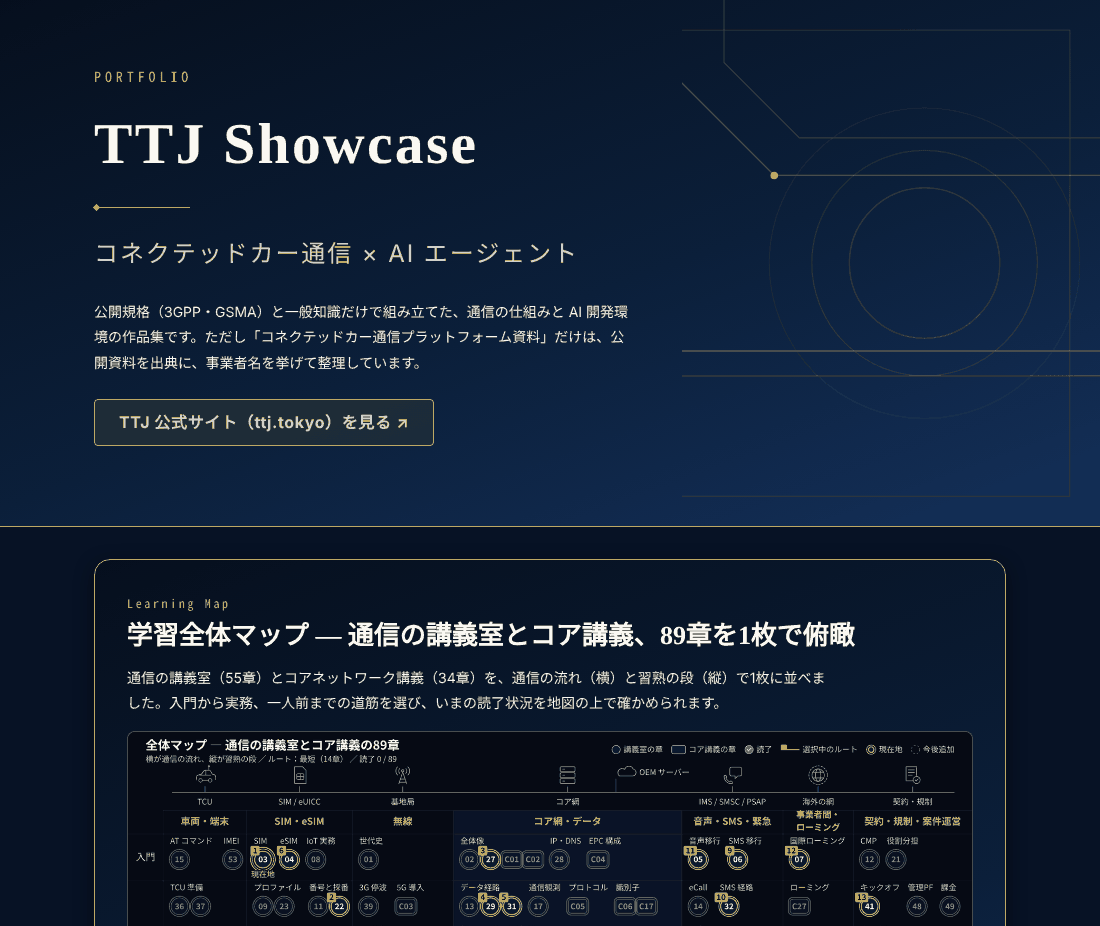
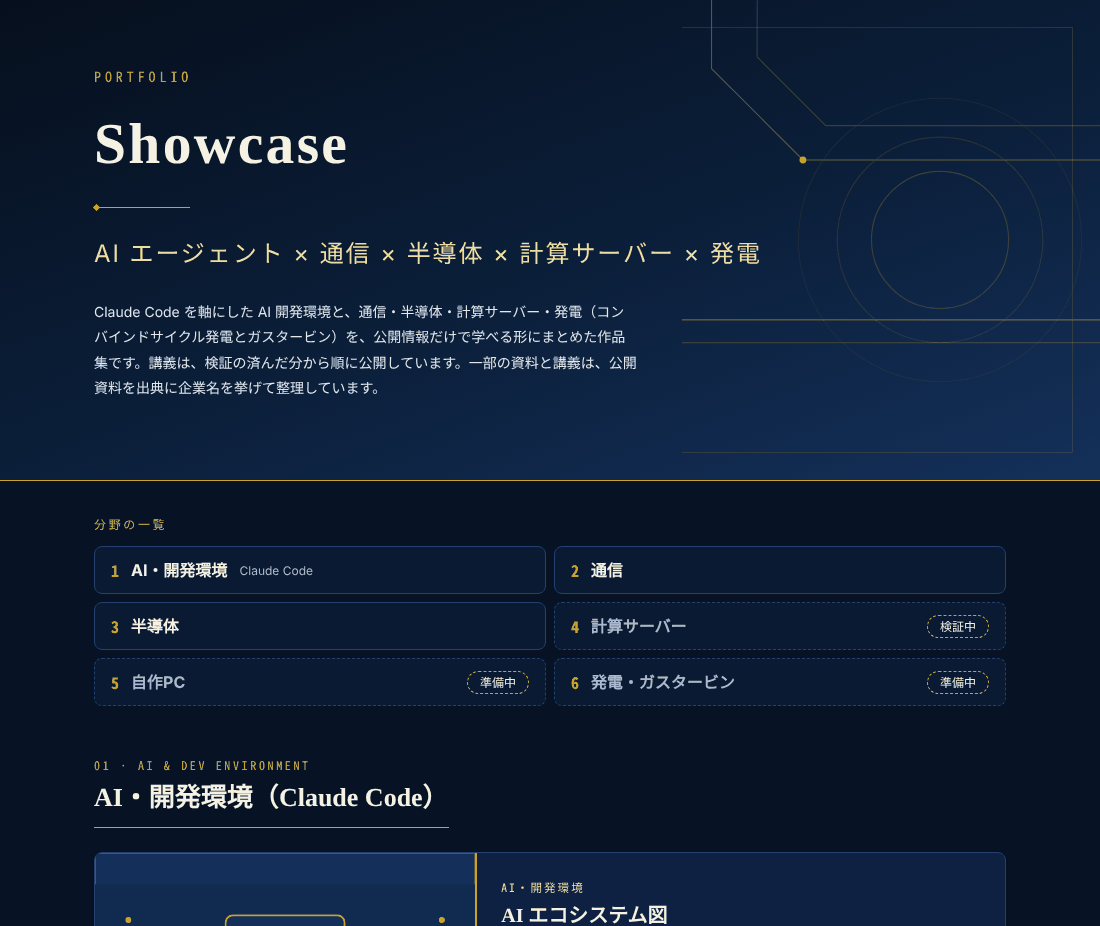
ショーケース上部を分野別の構成に直す（AI・通信・半導体・計算サーバー・発電）
- ヒーローの副題・説明文を、扱う分野の全体が分かるものに変更
- 分野の一覧（目次）を追加。未公開の分野は「検証中」「準備中」の札
- 作品を AI・開発環境 → 通信 → 半導体 → 予告 → その他の節に並べ替え
- プロフィールを分野の一覧に合わせて修正し、末尾へ移動
- ヒーローから ttj.tokyo のボタンを外し、題名を「Showcase」に変更
- README と OGP の説明文、portfolio.png も同じ趣旨に更新

Claude-Session: https://claude.ai/code/session_01TAiW6LFh45hysCjaHYhst4

diff --git a/showcase/index.html b/showcase/index.html
@@ -3,12 +3,12 @@
 <head>
 <meta charset="utf-8">
 <meta name="viewport" content="width=device-width, initial-scale=1">
-<title>TTJ Showcase — コネクテッドカー通信 × AI エージェント</title>
-<meta name="description" content="TTJ のポートフォリオ。通信の講義室とコアネットワーク講義の89章を1枚で俯瞰する学習全体マップ、コネクテッドカー通信と AI エージェント開発環境の作品集。">
+<title>Showcase — AI エージェント × 通信 × 半導体 × 計算サーバー × 発電</title>
+<meta name="description" content="Claude Code を軸にした AI 開発環境と、通信・半導体・計算サーバー・発電（コンバインドサイクル発電とガスタービン）を、公開情報だけで学べる形にまとめた作品集です。講義は、検証の済んだ分から順に公開しています。一部の資料と講義は、公開資料を出典に企業名を挙げて整理しています。">
 <meta property="og:type" content="website">
-<meta property="og:site_name" content="TTJ Showcase">
-<meta property="og:title" content="TTJ Showcase ― 学習全体マップ：通信の講義室とコア講義の89章を1枚で俯瞰">
-<meta property="og:description" content="通信の講義室（55章）とコアネットワーク講義（34章）を、通信の流れと習熟の段で1枚に。コネクテッドカー通信 × AI エージェントの作品集。">
+<meta property="og:site_name" content="Showcase">
+<meta property="og:title" content="Showcase ― 学習全体マップ：通信の講義室とコア講義の89章を1枚で俯瞰">
+<meta property="og:description" content="Claude Code を軸にした AI 開発環境と、通信・半導体・計算サーバー・発電（コンバインドサイクル発電とガスタービン）を、公開情報だけで学べる形にまとめた作品集です。講義は、検証の済んだ分から順に公開しています。一部の資料と講義は、公開資料を出典に企業名を挙げて整理しています。">
 <meta property="og:url" content="https://tetsuyaoyama.github.io/ttj-ai-ecosystem-/showcase/">
 <meta property="og:image" content="https://tetsuyaoyama.github.io/ttj-ai-ecosystem-/docs/images/learning-map.png">
 <meta property="og:image:width" content="1600">
@@ -120,6 +120,30 @@ a { color: var(--ttj-link); }
 .hero .sub { margin: 0; font-size: clamp(1.05rem, 3.6vw, 1.5rem); color: var(--ttj-gold-200); letter-spacing: 0.08em; }
 .hero .lead { margin: var(--ttj-space-5) 0 0; max-width: 34rem; color: var(--ttj-navy-100); font-size: var(--ttj-text-sm); }
 
+
+/* Hero sub: 区切りの × で折り返す */
+.hero .sub span { white-space: nowrap; }
+
+/* 分野の一覧 */
+.toc { padding: var(--ttj-space-6) 0 0; }
+.toc-title { margin: 0 0 var(--ttj-space-3); font-family: var(--ttj-font-mono); font-size: 0.75rem; letter-spacing: 0.22em; color: var(--ttj-accent-strong); }
+.toc ol { list-style: none; margin: 0; padding: 0; display: grid; gap: var(--ttj-space-2); grid-template-columns: 1fr; counter-reset: toc; }
+.toc li { counter-increment: toc; }
+.toc a, .toc .off { display: flex; align-items: center; gap: var(--ttj-space-3); min-height: 48px; padding: var(--ttj-space-2) var(--ttj-space-4); border: 1px solid var(--ttj-border); border-radius: var(--ttj-radius-md); background: var(--ttj-bg-subtle); text-decoration: none; color: var(--ttj-text); }
+.toc a::before, .toc .off::before { content: counter(toc); font-family: var(--ttj-font-mono); font-weight: 700; color: var(--ttj-accent-strong); }
+.toc a small { color: var(--ttj-text-muted); font-size: 0.75rem; }
+.toc a:hover, .toc a:focus-visible { border-color: var(--ttj-gold-500); }
+.toc .off { border-style: dashed; color: var(--ttj-text-muted); }
+.status { display: inline-block; margin-left: auto; font-family: var(--ttj-font-mono); font-style: normal; font-size: 0.75rem; line-height: 1.4; padding: 2px var(--ttj-space-3); border-radius: var(--ttj-radius-pill); border: 1px dashed var(--ttj-gold-500); color: var(--ttj-text); white-space: nowrap; }
+@media (min-width: 640px) { .toc ol { grid-template-columns: 1fr 1fr; } }
+
+/* 予告（未公開の分野） */
+.soon { display: flex; flex-wrap: wrap; align-items: center; gap: var(--ttj-space-2) var(--ttj-space-4); padding: var(--ttj-space-4) var(--ttj-space-5); border: 1px dashed var(--ttj-border); border-radius: var(--ttj-radius-md); background: var(--ttj-bg-subtle); }
+.soon h3 { font-size: var(--ttj-text-base); }
+.soon p { margin: 0; flex: 1 1 16rem; font-size: var(--ttj-text-sm); color: var(--ttj-text-muted); }
+.soon .status { margin-left: 0; }
+#field-telecom .feature { margin-bottom: var(--ttj-space-5); }
+
 /* ---------- Sections ---------- */
 section { padding: var(--ttj-space-7) 0 0; }
 .sec-head { margin-bottom: var(--ttj-space-5); }
@@ -136,12 +160,12 @@ section { padding: var(--ttj-space-7) 0 0; }
 .fields li { background: var(--ttj-bg); border: 1px solid var(--ttj-border); border-radius: var(--ttj-radius-md); padding: var(--ttj-space-4); box-shadow: var(--ttj-shadow-sm); }
 .fields strong { display: block; color: var(--ttj-navy-800); font-family: var(--ttj-font-serif); }
 .fields span { font-size: var(--ttj-text-sm); color: var(--ttj-text-muted); }
+.fields .status { margin-left: 0; font-size: 0.75rem; color: var(--ttj-text); }
 
 /* Feature（学習全体マップ） */
-.feature { padding-top: var(--ttj-space-6); }
 .feature-box { background: linear-gradient(160deg, var(--ttj-navy-900) 0%, var(--ttj-navy-800) 60%, var(--ttj-navy-700) 100%); color: var(--ttj-text-inverse); border: 1px solid var(--ttj-gold-500); border-radius: var(--ttj-radius-lg); box-shadow: var(--ttj-shadow-md); padding: var(--ttj-space-5); }
 .feature .en { display: block; font-family: var(--ttj-font-mono); font-size: 0.75rem; letter-spacing: 0.22em; color: var(--ttj-gold-400); }
-.feature h2 { color: #fff; font-size: clamp(1.3rem, 4.6vw, var(--ttj-text-xl)); font-weight: 600; margin-top: var(--ttj-space-1); }
+.feature h3 { color: #fff; font-size: clamp(1.3rem, 4.6vw, var(--ttj-text-xl)); font-weight: 600; margin-top: var(--ttj-space-1); }
 .feature .f-lead { margin: var(--ttj-space-3) 0 var(--ttj-space-4); max-width: 44rem; color: var(--ttj-navy-100); font-size: var(--ttj-text-sm); }
 .feature .f-shot { display: block; border: 1px solid rgba(201,162,39,0.55); border-radius: var(--ttj-radius-md); overflow: hidden; background: #060a14; }
 .feature .f-shot img { display: block; width: 100%; height: auto; }
@@ -184,15 +208,6 @@ section { padding: var(--ttj-space-7) 0 0; }
 .btn:hover { background: var(--ttj-gold-500); color: var(--ttj-navy-900); border-color: var(--ttj-gold-500); }
 .btn svg { width: 16px; height: 16px; }
 
-/* Site link */
-.hero-cta { margin: var(--ttj-space-5) 0 0; }
-.btn-site {
-  display: inline-block; line-height: 1.6; min-height: 44px; box-sizing: border-box; padding: 10px var(--ttj-space-5);
-  color: var(--ttj-gold-200); text-decoration: none; font-weight: 700; letter-spacing: 0.04em;
-  border: 1px solid var(--ttj-gold-500); border-radius: var(--ttj-radius-sm); background: rgba(201,162,39,0.1);
-  transition: background .2s ease, color .2s ease;
-}
-.btn-site:hover, .btn-site:focus-visible { background: var(--ttj-gold-500); color: var(--ttj-navy-900); }
 @media (min-width: 820px) {
   .cards > .card:last-child:nth-child(odd) { grid-column: 1 / -1; flex-direction: row; }
   .cards > .card:last-child:nth-child(odd) .thumb { flex: 0 0 42%; border-bottom: 0; border-right: 2px solid var(--ttj-gold-500); display: flex; }
@@ -294,7 +309,7 @@ footer a:hover { color: var(--ttj-gold-200); }
 </style>
 </head>
 <body>
-<a class="skip" href="#works">作品へスキップ</a>
+<a class="skip" href="#field-ai">作品へスキップ</a>
 
 <header class="hero">
   <svg class="hero-art" viewBox="0 0 960 420" preserveAspectRatio="xMaxYMid slice" aria-hidden="true" focusable="false">
@@ -313,20 +328,74 @@ footer a:hover { color: var(--ttj-gold-200); }
   </svg>
   <div class="wrap">
     <p class="eyebrow">Portfolio</p>
-    <h1>TTJ Showcase</h1>
+    <h1>Showcase</h1>
     <span class="rule" aria-hidden="true"></span>
-    <p class="sub">コネクテッドカー通信 × AI エージェント</p>
-    <p class="lead">公開規格（3GPP・GSMA）と一般知識だけで組み立てた、通信の仕組みと AI 開発環境の作品集です。ただし「コネクテッドカー通信プラットフォーム資料」だけは、公開資料を出典に、事業者名を挙げて整理しています。</p>
-    <p class="hero-cta"><a class="btn-site" href="https://ttj.tokyo/" target="_blank" rel="noopener noreferrer">TTJ 公式サイト（ttj.tokyo）<span style="white-space:nowrap">を見る ↗</span></a></p>
+    <p class="sub"><span>AI エージェント</span> × <span>通信</span> × <span>半導体</span> × <span>計算サーバー</span> × <span>発電</span></p>
+    <p class="lead">Claude Code を軸にした AI 開発環境と、通信・半導体・計算サーバー・発電（コンバインドサイクル発電とガスタービン）を、公開情報だけで学べる形にまとめた作品集です。講義は、検証の済んだ分から順に公開しています。一部の資料と講義は、公開資料を出典に企業名を挙げて整理しています。</p>
   </div>
 </header>
 
+<nav class="toc" aria-label="分野の一覧">
+  <div class="wrap">
+    <p class="toc-title">分野の一覧</p>
+    <ol>
+      <li><a href="#field-ai"><b>AI・開発環境</b><small>Claude Code</small></a></li>
+      <li><a href="#field-telecom"><b>通信</b></a></li>
+      <li><a href="#field-semi"><b>半導体</b></a></li>
+      <li><span class="off"><b>計算サーバー</b><i class="status">検証中</i></span></li>
+      <li><span class="off"><b>自作PC</b><i class="status">準備中</i></span></li>
+      <li><span class="off"><b>発電・ガスタービン</b><i class="status">準備中</i></span></li>
+    </ol>
+  </div>
+</nav>
+
 <main>
-  <section class="feature" aria-labelledby="h-map">
+  <section id="field-ai" aria-labelledby="h-field-ai">
     <div class="wrap">
-      <div class="feature-box">
+      <div class="sec-head"><span class="en">01 · AI &amp; Dev Environment</span><h2 id="h-field-ai">AI・開発環境（Claude Code）</h2></div>
+      <div class="cards">
+
+        <article class="card">
+          <div class="thumb">
+            <svg viewBox="0 0 320 160" role="img" aria-label="中央の司令塔から四つのモデルへ枝分かれする構成図">
+              <rect width="320" height="160" fill="#0B1F3A"/>
+              <g fill="none" stroke="#C9A227" stroke-width="1.2">
+                <path d="M160 62 V84 M160 84 H50 V104 M160 84 H123 V104 M160 84 H197 V104 M160 84 H270 V104"/>
+              </g>
+              <rect x="110" y="26" width="100" height="36" rx="6" fill="#14305A" stroke="#C9A227" stroke-width="1.5"/>
+              <text x="160" y="48" fill="#F5F1E3" font-size="11" text-anchor="middle" font-family="monospace">Claude Code</text>
+              <g fill="#0B1F3A" stroke="#C9A227" stroke-width="1.2">
+                <rect x="24" y="104" width="52" height="28" rx="4"/>
+                <rect x="97" y="104" width="52" height="28" rx="4"/>
+                <rect x="171" y="104" width="52" height="28" rx="4"/>
+                <rect x="244" y="104" width="52" height="28" rx="4"/>
+              </g>
+              <g fill="#EEDDA0" font-size="9" text-anchor="middle" font-family="monospace">
+                <text x="50" y="122">haiku</text><text x="123" y="122">sonnet</text><text x="197" y="122">opus</text><text x="270" y="122">fable</text>
+              </g>
+              <circle cx="28" cy="30" r="2.5" fill="#C9A227"/><circle cx="292" cy="30" r="2.5" fill="#C9A227"/>
+            </svg>
+          </div>
+          <div class="card-body">
+            <p class="field">AI・開発環境</p>
+            <h3>AI エコシステム図</h3>
+            <p class="desc">Claude Code を司令塔に、フック・スキル・サブエージェント、そして 4 つのモデルへの振り分けまでの構成を一枚で見渡せます。</p>
+            <ul class="tags" aria-label="技術タグ"><li>Claude Code</li><li>Hooks</li><li>Skills</li><li>Subagents</li><li>Model routing</li></ul>
+            <a class="btn" href="ai-ecosystem/index.html" aria-label="AI エコシステム図を開く">開く
+              <svg viewBox="0 0 16 16" fill="none" stroke="currentColor" stroke-width="2" aria-hidden="true"><path d="M3 8h10M9 4l4 4-4 4"/></svg></a>
+          </div>
+        </article>
+
+      </div>
+    </div>
+  </section>
+
+  <section id="field-telecom" aria-labelledby="h-field-telecom">
+    <div class="wrap">
+      <div class="sec-head"><span class="en">02 · Telecom</span><h2 id="h-field-telecom">通信</h2></div>
+      <div class="feature"><div class="feature-box">
         <span class="en">Learning Map</span>
-        <h2 id="h-map">学習全体マップ — 通信の講義室とコア講義、89章を1枚で俯瞰</h2>
+        <h3 id="h-map">学習全体マップ — 通信の講義室とコア講義、89章を1枚で俯瞰</h3>
         <p class="f-lead">通信の講義室（55章）とコアネットワーク講義（34章）を、通信の流れ（横）と習熟の段（縦）で1枚に並べました。入門から実務、一人前までの道筋を選び、いまの読了状況を地図の上で確かめられます。</p>
         <a class="f-shot" href="learning-map/" aria-label="学習全体マップを開く">
           <img src="../docs/images/learning-map.png" width="1600" height="900" alt="通信の講義室とコアネットワーク講義の89章を、横に通信の流れ、縦に習熟の段で並べた地図。各章が点で表され、章番号が書かれている。" loading="eager">
@@ -337,32 +406,7 @@ footer a:hover { color: var(--ttj-gold-200); }
           <a href="core-network/">コアネットワーク講義へ</a>
         </div>
       </div>
-    </div>
-  </section>
-
-  <section aria-labelledby="h-profile">
-    <div class="wrap">
-      <div class="sec-head"><span class="en">Profile</span><h2 id="h-profile">プロフィール</h2></div>
-      <div class="profile">
-        <div class="profile-main">
-          <h3>TTJ</h3>
-          <p class="org">TED TRADING JAPAN G.K.</p>
-          <p>コネクテッドカーの通信まわりを専門にしています。仕組みを図とアニメーションで分かりやすく見せること、そして AI エージェントを使って、迷わず使える開発環境をつくることに取り組んでいます。</p>
-        </div>
-        <ul class="fields" aria-label="専門分野">
-          <li><strong>eSIM / eUICC</strong><span>リモート SIM プロビジョニング</span></li>
-          <li><strong>VoLTE / IMS</strong><span>音声サービスと登録フロー</span></li>
-          <li><strong>SMS ルーティング</strong><span>SMS over SGs / IP</span></li>
-          <li><strong>国際ローミング</strong><span>Roaming（S8HR など）</span></li>
-          <li><strong>AI エージェント開発環境</strong><span>Claude Code を軸にした環境づくり</span></li>
-        </ul>
       </div>
-    </div>
-  </section>
-
-  <section id="works" aria-labelledby="h-works">
-    <div class="wrap">
-      <div class="sec-head"><span class="en">Works</span><h2 id="h-works">作品</h2></div>
       <div class="cards">
 
         <article class="card">
@@ -523,6 +567,15 @@ footer a:hover { color: var(--ttj-gold-200); }
           </div>
         </article>
 
+      </div>
+    </div>
+  </section>
+
+  <section id="field-semi" aria-labelledby="h-field-semi">
+    <div class="wrap">
+      <div class="sec-head"><span class="en">03 · Semiconductor</span><h2 id="h-field-semi">半導体</h2></div>
+      <div class="cards">
+
         <article class="card">
           <div class="thumb">
             <svg viewBox="0 0 320 160" role="img" aria-label="格子状にチップが並んだ円形のウェーハと、積み重なった層を描いたチップ断面の抽象図">
@@ -562,36 +615,47 @@ footer a:hover { color: var(--ttj-gold-200); }
           </div>
         </article>
 
-        <article class="card">
-          <div class="thumb">
-            <svg viewBox="0 0 320 160" role="img" aria-label="中央の司令塔から四つのモデルへ枝分かれする構成図">
-              <rect width="320" height="160" fill="#0B1F3A"/>
-              <g fill="none" stroke="#C9A227" stroke-width="1.2">
-                <path d="M160 62 V84 M160 84 H50 V104 M160 84 H123 V104 M160 84 H197 V104 M160 84 H270 V104"/>
-              </g>
-              <rect x="110" y="26" width="100" height="36" rx="6" fill="#14305A" stroke="#C9A227" stroke-width="1.5"/>
-              <text x="160" y="48" fill="#F5F1E3" font-size="11" text-anchor="middle" font-family="monospace">Claude Code</text>
-              <g fill="#0B1F3A" stroke="#C9A227" stroke-width="1.2">
-                <rect x="24" y="104" width="52" height="28" rx="4"/>
-                <rect x="97" y="104" width="52" height="28" rx="4"/>
-                <rect x="171" y="104" width="52" height="28" rx="4"/>
-                <rect x="244" y="104" width="52" height="28" rx="4"/>
-              </g>
-              <g fill="#EEDDA0" font-size="9" text-anchor="middle" font-family="monospace">
-                <text x="50" y="122">haiku</text><text x="123" y="122">sonnet</text><text x="197" y="122">opus</text><text x="270" y="122">fable</text>
-              </g>
-              <circle cx="28" cy="30" r="2.5" fill="#C9A227"/><circle cx="292" cy="30" r="2.5" fill="#C9A227"/>
-            </svg>
-          </div>
-          <div class="card-body">
-            <p class="field">AI・開発環境</p>
-            <h3>AI エコシステム図</h3>
-            <p class="desc">Claude Code を司令塔に、フック・スキル・サブエージェント、そして 4 つのモデルへの振り分けまでの構成を一枚で見渡せます。</p>
-            <ul class="tags" aria-label="技術タグ"><li>Claude Code</li><li>Hooks</li><li>Skills</li><li>Subagents</li><li>Model routing</li></ul>
-            <a class="btn" href="ai-ecosystem/index.html" aria-label="AI エコシステム図を開く">開く
-              <svg viewBox="0 0 16 16" fill="none" stroke="currentColor" stroke-width="2" aria-hidden="true"><path d="M3 8h10M9 4l4 4-4 4"/></svg></a>
-          </div>
-        </article>
+      </div>
+    </div>
+  </section>
+
+  <section id="field-compute" aria-labelledby="h-field-compute">
+    <div class="wrap">
+      <div class="sec-head"><span class="en">04 · Compute Servers</span><h2 id="h-field-compute">計算サーバー</h2></div>
+      <div class="soon">
+        <h3>計算サーバー</h3>
+        <p>計算サーバーの仕組みを扱う講義。</p>
+        <span class="status">検証中</span>
+      </div>
+    </div>
+  </section>
+
+  <section id="field-pc" aria-labelledby="h-field-pc">
+    <div class="wrap">
+      <div class="sec-head"><span class="en">05 · Custom PC</span><h2 id="h-field-pc">自作PC</h2></div>
+      <div class="soon">
+        <h3>自作PC</h3>
+        <p>自作 PC を扱う講義。</p>
+        <span class="status">準備中</span>
+      </div>
+    </div>
+  </section>
+
+  <section id="field-power" aria-labelledby="h-field-power">
+    <div class="wrap">
+      <div class="sec-head"><span class="en">06 · Power Generation</span><h2 id="h-field-power">発電・ガスタービン</h2></div>
+      <div class="soon">
+        <h3>発電・ガスタービン</h3>
+        <p>発電事業の仕組みと、コンバインドサイクル発電用ガスタービンを扱う講義。</p>
+        <span class="status">準備中</span>
+      </div>
+    </div>
+  </section>
+
+  <section id="field-other" aria-labelledby="h-field-other">
+    <div class="wrap">
+      <div class="sec-head"><span class="en">Other</span><h2 id="h-field-other">その他</h2></div>
+      <div class="cards">
 
         <article class="card">
           <div class="thumb">
@@ -622,6 +686,27 @@ footer a:hover { color: var(--ttj-gold-200); }
           </div>
         </article>
 
+      </div>
+    </div>
+  </section>
+
+  <section aria-labelledby="h-profile">
+    <div class="wrap">
+      <div class="sec-head"><span class="en">Profile</span><h2 id="h-profile">プロフィール</h2></div>
+      <div class="profile">
+        <div class="profile-main">
+          <h3>TTJ</h3>
+          <p class="org">TED TRADING JAPAN G.K.</p>
+          <p>AI・開発環境、通信、半導体、計算サーバー、発電を、公開情報だけで学べる形にまとめています。仕組みを図とアニメーションで分かりやすく見せること、そして AI エージェントを使って、迷わず使える開発環境をつくることに取り組んでいます。</p>
+        </div>
+        <ul class="fields" aria-label="分野">
+          <li><strong>AI・開発環境</strong><span>Claude Code を軸にした環境づくり</span></li>
+          <li><strong>通信</strong><span>eSIM / eUICC・VoLTE / IMS・SMS・国際ローミング</span></li>
+          <li><strong>半導体</strong><span>物性から製造装置・装置輸送まで（全32章）</span></li>
+          <li><strong>計算サーバー</strong><span class="status">検証中</span></li>
+          <li><strong>自作PC</strong><span class="status">準備中</span></li>
+          <li><strong>発電・ガスタービン</strong><span class="status">準備中</span></li>
+        </ul>
       </div>
     </div>
   </section>

diff --git a/showcase/learning-map/index.html b/showcase/learning-map/index.html
@@ -3,13 +3,13 @@
 <head>
 <meta charset="utf-8">
 <meta name="viewport" content="width=device-width, initial-scale=1">
-<title>学習全体マップ ― 通信の講義室とコア講義の89章を1枚で俯瞰｜TTJ Showcase</title>
+<title>学習全体マップ ― 通信の講義室とコア講義の89章を1枚で俯瞰｜Showcase</title>
 <meta name="description" content="通信の講義室（55章）とコアネットワーク講義（34章）を、通信の流れ（横）と習熟の段（縦）で1枚に並べた学習マップ。ルート選択、順路一覧、SVG・PNG 保存、読了の反映に対応。">
 <meta name="author" content="TTJ">
 <meta name="theme-color" content="#060F1D">
 <link rel="canonical" href="https://tetsuyaoyama.github.io/ttj-ai-ecosystem-/showcase/learning-map/">
 <meta property="og:type" content="website">
-<meta property="og:site_name" content="TTJ Showcase">
+<meta property="og:site_name" content="Showcase">
 <meta property="og:title" content="学習全体マップ ― 通信の講義室とコア講義の89章を1枚で俯瞰">
 <meta property="og:description" content="通信の流れ（横）と習熟の段（縦）で、通信の講義室55章とコアネットワーク講義34章を1枚に。">
 <meta property="og:url" content="https://tetsuyaoyama.github.io/ttj-ai-ecosystem-/showcase/learning-map/">

diff --git a/showcase/cc-platforms/index.html b/showcase/cc-platforms/index.html
@@ -7,7 +7,7 @@
 <meta name="author" content="TTJ">
 <meta name="theme-color" content="#0a0f1c">
 <meta property="og:type" content="article">
-<meta property="og:site_name" content="TTJ Showcase">
+<meta property="og:site_name" content="Showcase">
 <meta property="og:title" content="コネクテッドカー通信プラットフォーム完全資料 — 主要事業者と業界動向">
 <meta property="og:description" content="コネクテッドカー通信の主要事業者（国内外の通信事業者・専業プラットフォーム・eSIM供給者、約30社）と業界の動きを、公開情報だけを出典に整理した資料。出典156件、実務者のチェックポイントと比較表つき。">
 <meta property="og:url" content="https://tetsuyaoyama.github.io/ttj-ai-ecosystem-/showcase/cc-platforms/">
